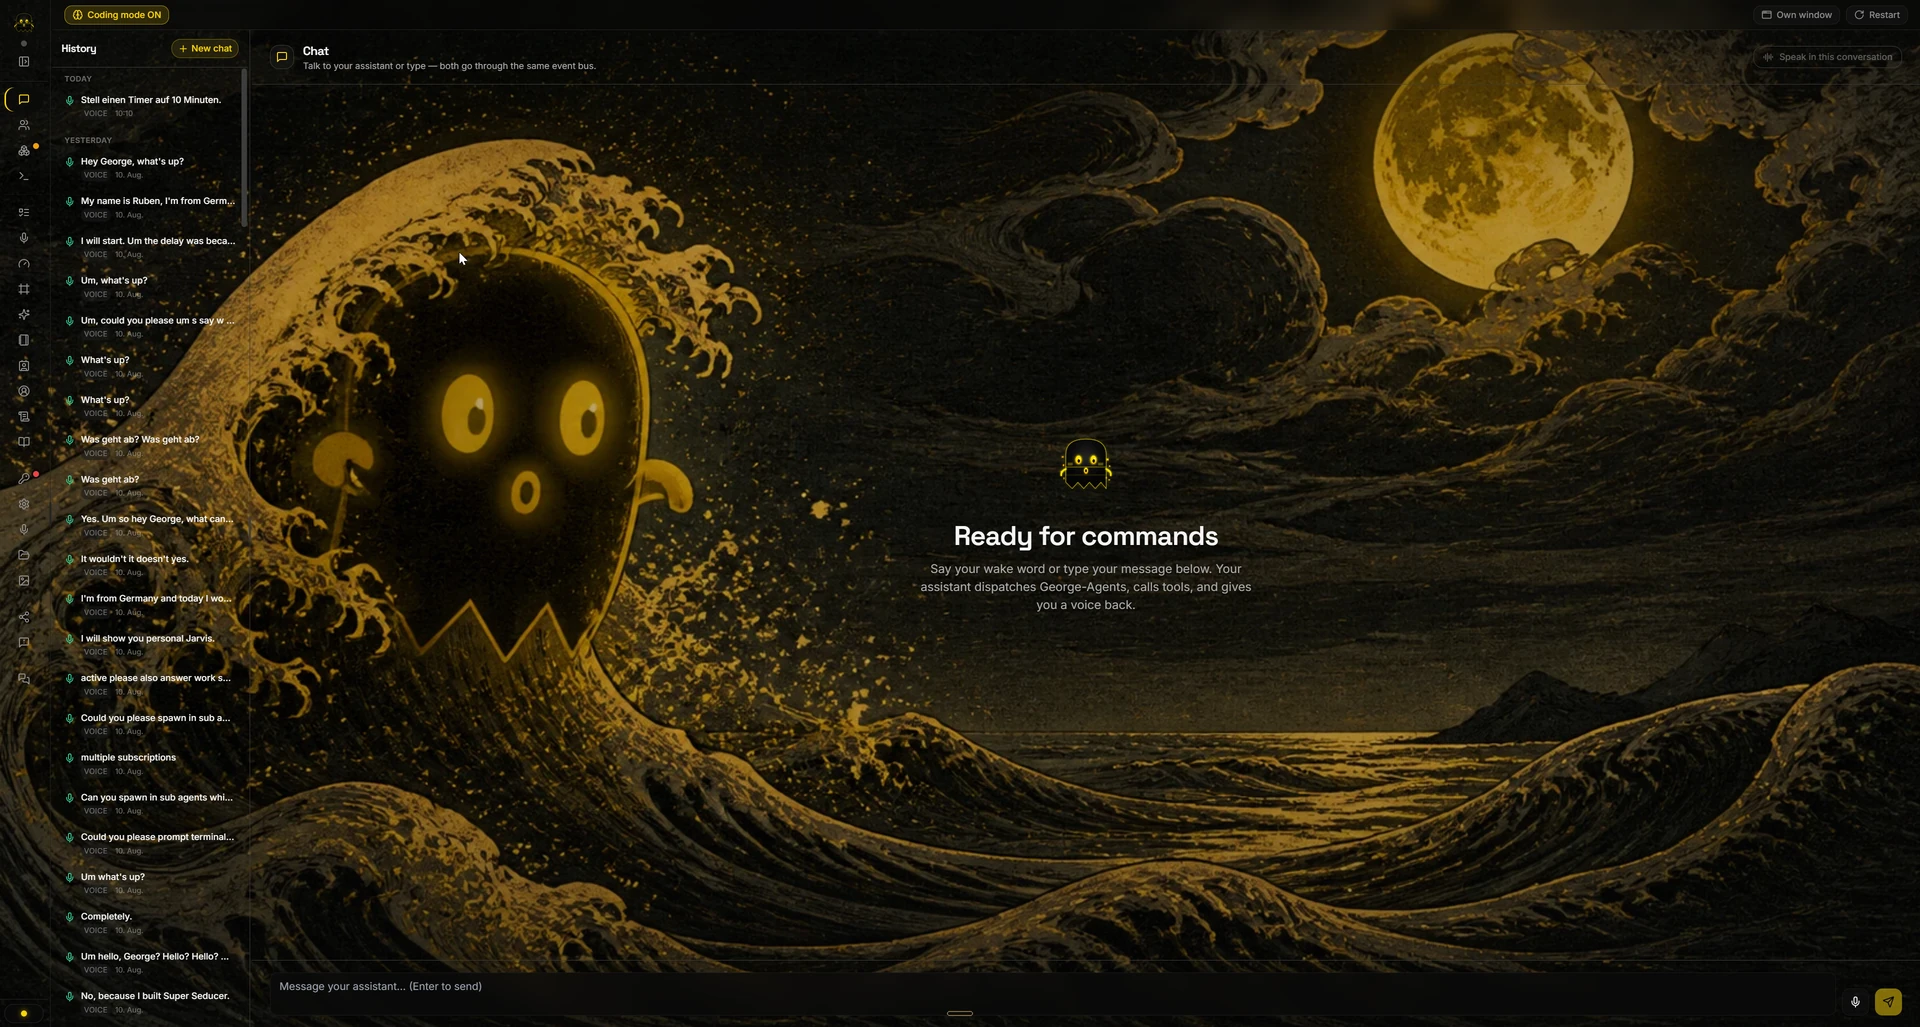
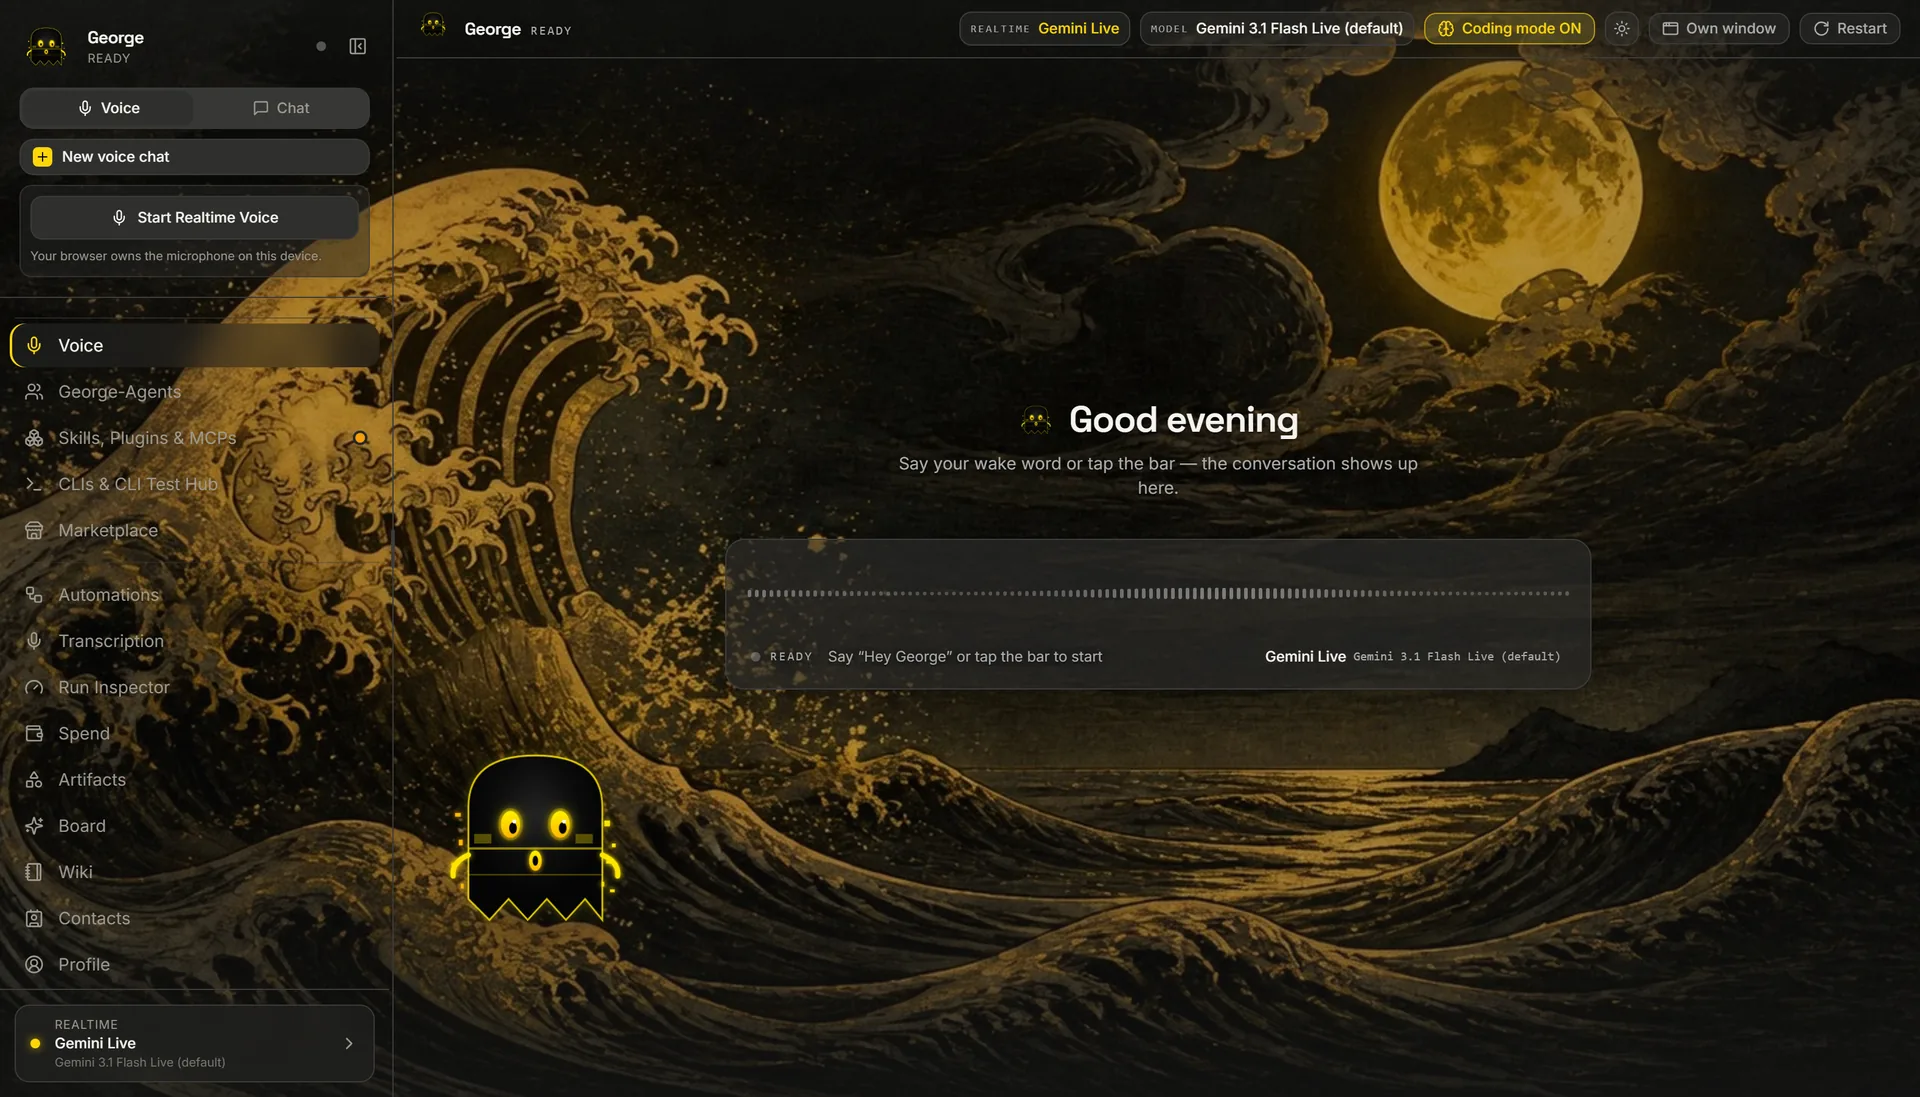
docs(readme): screenshots of the UI as it stands today
The hero shot still showed the icon rail, the history panel and the "Ready
for commands" prompt, none of which the app has had since the sidebar was
rebuilt. Replaced it, and the wallpaper GIF from v1.3.1, with captures of
the running app, and added two sections the README described but never
pictured: Local models and Automations.

Also corrects two claims the UI outgrew: the gallery holds 504 wallpapers
across 23 styles, not 501 across 21, and finished work lands in Artifacts
now that the Outputs section is retired.

diff --git a/README.md b/README.md
@@ -62,18 +62,18 @@ Claude, OpenAI, or OpenRouter, one setting for each. It can rewrite its own conf
 and it runs on a headless server just as well as on a desktop with a microphone.
 
 <p align="center">
-  <img src="https://github.com/PersonalJarvis/PersonalJarvis/raw/main/assets/screenshots/app-chat.webp" alt="The desktop app's chat view: voice history in the sidebar, the ghost mascot over a golden wave wallpaper, and the Ready for commands prompt" width="900" />
+  <img src="https://github.com/PersonalJarvis/PersonalJarvis/raw/main/assets/screenshots/app-chat.webp" alt="The desktop app's home view: every section in the sidebar, the realtime voice bar waiting for a wake word, and the ghost mascot on a wallpaper" width="900" />
 </p>
 
 <p align="center">
-  <sub>The desktop app, ready for commands. The assistant takes whatever name you pick as your wake word &mdash; this install answers to George.</sub>
+  <sub>The desktop app, waiting for a wake word. Every section is one click away in the sidebar, and the bar at the bottom is the live voice channel &mdash; the assistant takes whatever name you pick as your wake word, and this install answers to George.</sub>
 </p>
 
 ## What you can say
 
 | You say | What happens |
 |---|---|
-| *"Research vector databases."* | An isolated agent does the research. The finished report lands in **Outputs** as a file you can download. |
+| *"Research vector databases."* | An isolated agent does the research. The finished report lands in **Artifacts** as a file you can download. |
 | *"Call the clinic and book the next open appointment."* | A real outbound phone call goes out over the optional Twilio line. |
 | *"Remember: Alex prefers Signal over email."* | Written to the Knowledge Wiki, and still known in every later session. |
 | *"Switch the voice over to Cartesia."* | The speech provider changes while you talk, and Jarvis reads the change back to you, old then new. |
@@ -118,6 +118,15 @@ can keep your voice, your screen and your files on the machine they started on.
 
 Mixing is normal and expected: a local recognizer with a hosted brain, or a local brain
 with a hosted voice. Nothing forces the whole chain one way.
+
+You do not have to know which model fits which job. The app has a **Local models** section:
+it sees the server and the graphics memory it has to work with, lists the jobs a local model
+can take over, and picks a download for each one, so filling a slot is a button rather than
+a research project.
+
+<p align="center">
+  <img src="https://github.com/PersonalJarvis/PersonalJarvis/raw/main/assets/screenshots/app-local-models.webp" alt="The Local models section: the running server, available graphics memory, and one recommended download per job" width="900" />
+</p>
 
 Two capabilities stay outside this promise, and it would be dishonest to imply otherwise.
 The outbound phone call goes over Twilio, which is a hosted service by definition, and the
@@ -288,7 +297,19 @@ VPS, terminate TLS with an HTTPS reverse proxy such as Caddy or Nginx. Plain
 Anything non-trivial, say "research X and write me a report", spawns a worker in an
 isolated `git worktree`: a private sandbox copy of the workspace, with crash containment. A
 critic reviews the result, for up to three rounds, before you ever hear it, and
-deliverables land in **Outputs** as downloadable files.
+deliverables land in **Artifacts** as downloadable files.
+
+### Automations
+
+Work that repeats without being asked for: a morning brief, a weekly review, a digest of
+the unread mail, a watch on the topics you follow. Ten ready-made ones sit in a catalogue —
+add one and adjust its schedule — or describe your own in plain language and it becomes a
+job with a schedule, a run history, and an honest error when a run fails instead of silent
+nothing. One-off moments ("do this on Friday at nine") live in the same place.
+
+<p align="center">
+  <img src="https://github.com/PersonalJarvis/PersonalJarvis/raw/main/assets/screenshots/app-automations.webp" alt="The automations catalogue: ready-made recurring jobs grouped by news, productivity, finance, research and developer" width="900" />
+</p>
 
 ### Agentic IDE
 
@@ -390,12 +411,14 @@ pipeline when it is unavailable.
 
 ### Wallpaper gallery
 
-501 wallpapers across 21 art styles, from oil painting and pixel art to synthwave and
+504 wallpapers across 23 art styles, from oil painting and pixel art to synthwave and
 woodblock, each tagged light or dark so the app can match the wallpaper to your theme.
-Filter the grid, preview fullscreen, mark favorites, or add your own image.
+Filter by style or by light and dark, preview fullscreen, mark favorites, or add your own
+image. The app opens on a plain colour by default; picking a picture here is what switches
+it, and one control puts the plain ground back.
 
 <p align="center">
-  <img src="https://github.com/PersonalJarvis/PersonalJarvis/releases/download/v1.3.1/readme-demo-wallpapers.gif" alt="Scrolling the wallpaper gallery and opening a fullscreen preview" width="860" />
+  <img src="https://github.com/PersonalJarvis/PersonalJarvis/raw/main/assets/screenshots/app-wallpapers.webp" alt="The wallpaper gallery filtered to one art style, with every style listed above the grid" width="900" />
 </p>
 
 ## Drive it from the terminal
